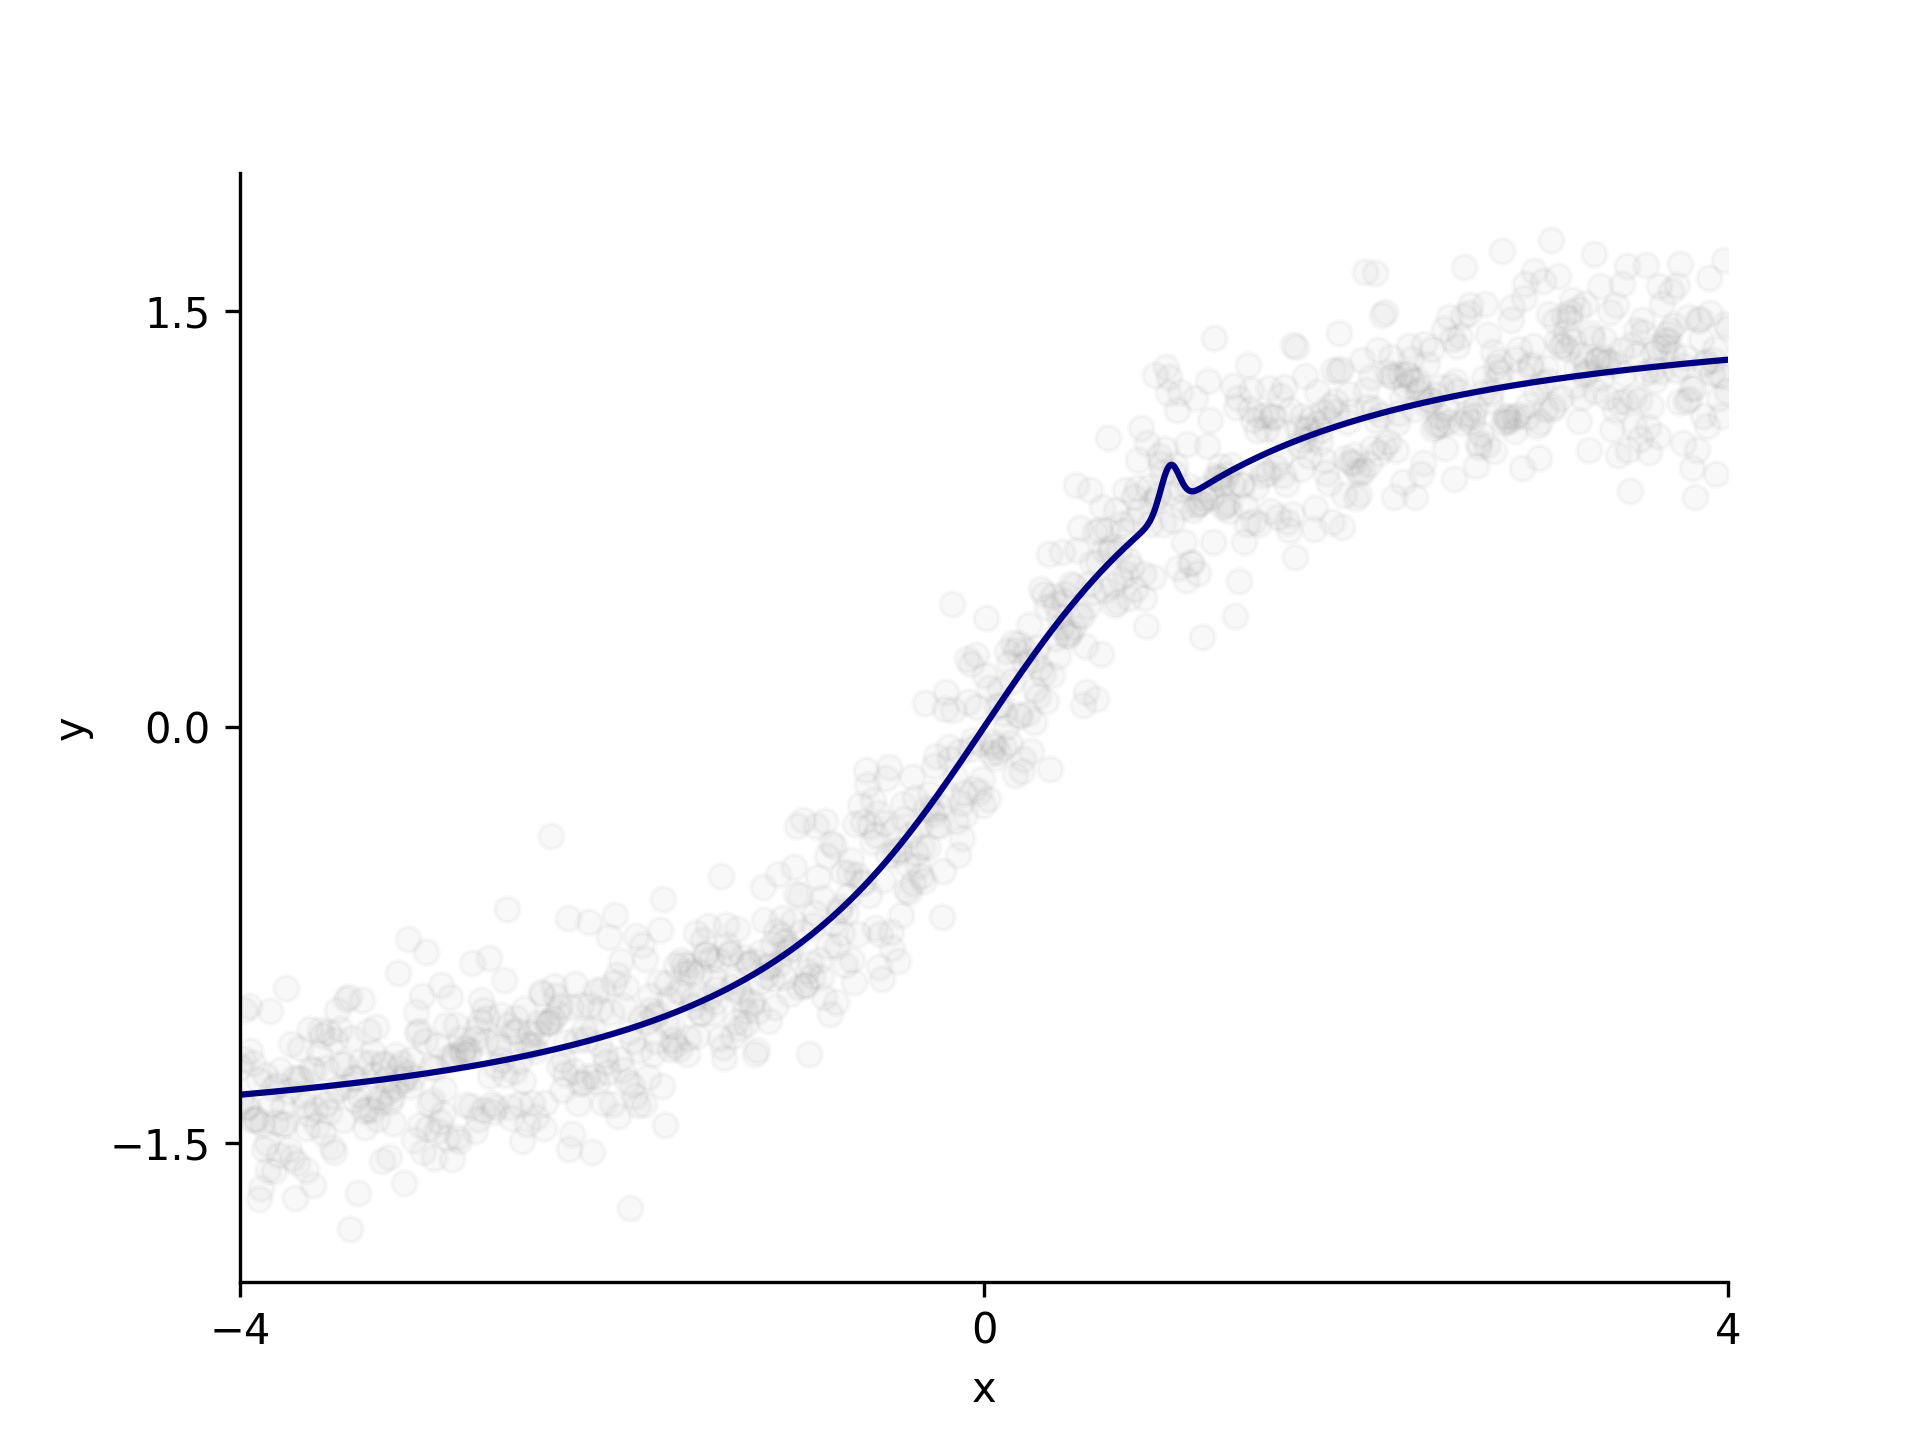
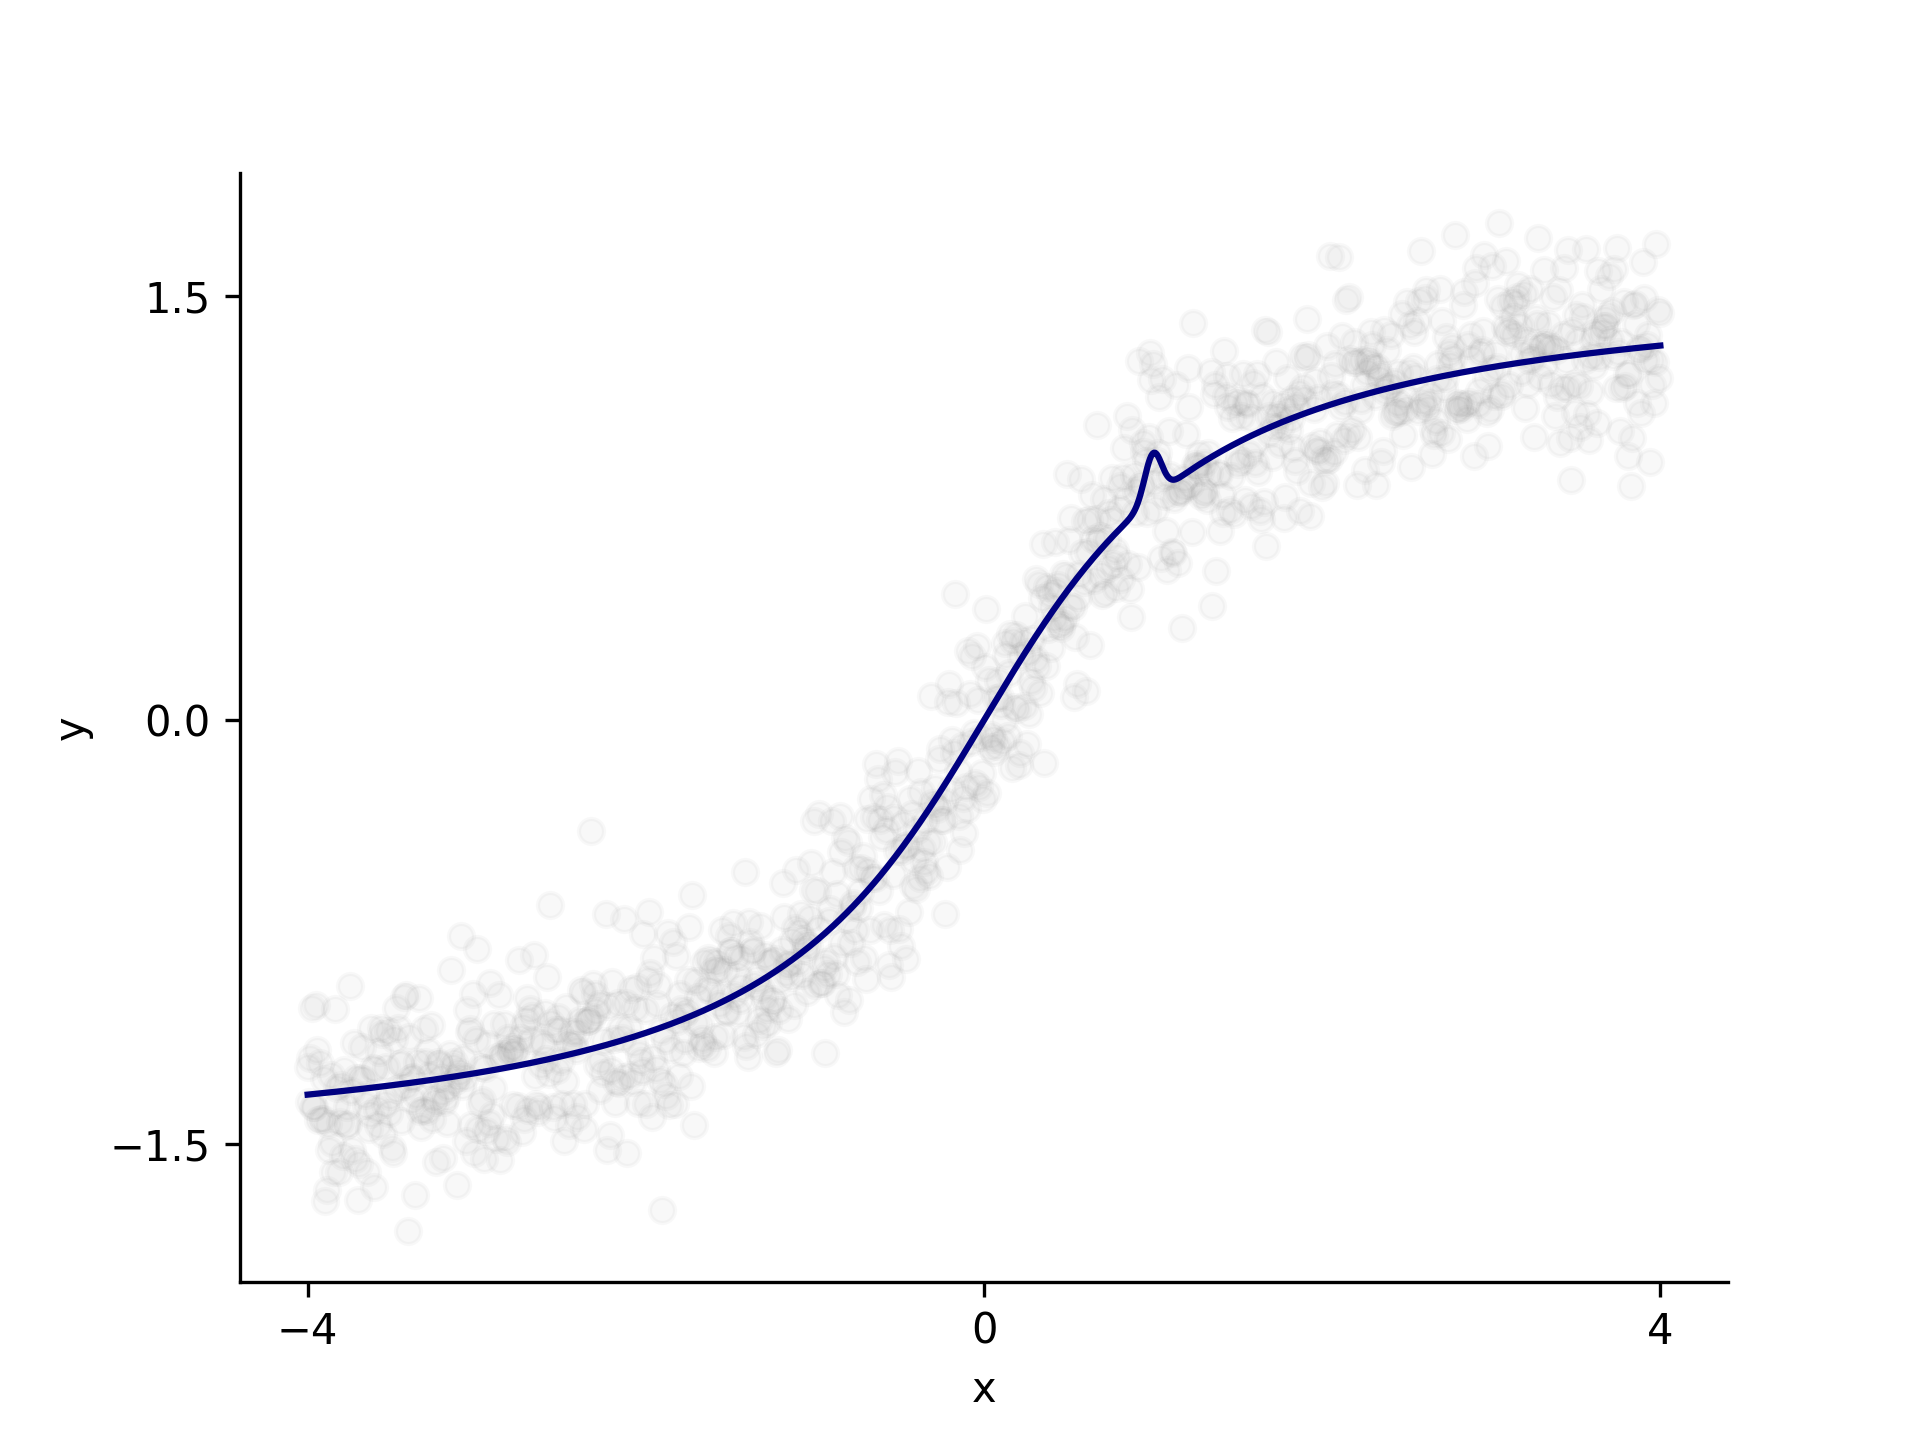
Module 1 fixes (#14)
* add: .yaml files edits by the new version of the plugin

* add: hint on importing hidden functions in matplotlib theory in 1st module

* fix: define all additional files in course-info.yaml (#15)

* add: hint, explaining how linear regression works
fix: task formulation in matplotlib lesson

* fix: move `set_lim` to the advanced section of Matplotlib practice

* feat: add gifs

* fix: fix the hint

* fix: fix xlim and ylim

---------

diff --git a/1_2_line_and_scatter_plots_matplotlib/2_practice/2_advanced_inset_axes/tests/test_task.py b/1_2_line_and_scatter_plots_matplotlib/2_practice/2_advanced_inset_axes/tests/test_task.py
@@ -54,23 +54,23 @@ class PlotTestCase(BaseTestMixin):
         self.checkSpineVisibility(self.fig.axes[0], position="left", expected_visibility=True)
         self.checkSpineVisibility(self.fig.axes[0], position="right", expected_visibility=False)
 
-    def test_05_1_x_lim(self):
-        self.checkLim(self.fig.axes[0], expected_lim=[-4, 4], axis="x")
-
-    def test_05_2_x_ticks(self):
+    def test_05_1_x_ticks(self):
         self.checkTicks(self.fig.axes[0], expected_ticks=[-4, 0, 4], axis="x")
 
-    def test_05_3_x_label(self):
+    def test_05_2_x_label(self):
         self.checkLabel(self.fig.axes[0], expected_label="x", axis="x")
 
-    def test_06_1_y_lim(self):
-        self.checkLim(self.fig.axes[0], expected_lim=[-2, 2], axis="y")
+    def test_05_3_x_lim(self):
+        self.checkLim(self.fig.axes[0], expected_lim=[-4, 4], axis="x")
 
-    def test_06_2_y_ticks(self):
+    def test_06_1_y_ticks(self):
         self.checkTicks(self.fig.axes[0], expected_ticks=[-1.5, 0, 1.5], axis="y")
 
-    def test_06_3_y_label(self):
+    def test_06_2_y_label(self):
         self.checkLabel(self.fig.axes[0], expected_label="y", axis="y")
+
+    def test_06_3_y_lim(self):
+        self.checkLim(self.fig.axes[0], expected_lim=[-2, 2], axis="y")
 
     def test_07_1_number_of_inset_axes(self):
         self.checkNumberOfAxes(self.fig.axes[0].child_axes, 1)

diff --git a/1_2_line_and_scatter_plots_matplotlib/2_practice/1_base_plot/tests/test_task.py b/1_2_line_and_scatter_plots_matplotlib/2_practice/1_base_plot/tests/test_task.py
@@ -53,20 +53,14 @@ class PlotTestCase(BaseTestMixin):
         self.checkSpineVisibility(self.fig.axes[0], position="left", expected_visibility=True)
         self.checkSpineVisibility(self.fig.axes[0], position="right", expected_visibility=False)
 
-    def test_05_1_x_lim(self):
-        self.checkLim(self.fig.axes[0], expected_lim=[-4, 4], axis="x")
-
-    def test_05_2_x_ticks(self):
+    def test_05_1_x_ticks(self):
         self.checkTicks(self.fig.axes[0], expected_ticks=[-4, 0, 4], axis="x")
 
-    def test_05_3_x_label(self):
+    def test_05_2_x_label(self):
         self.checkLabel(self.fig.axes[0], expected_label="x", axis="x")
 
-    def test_06_1_y_lim(self):
-        self.checkLim(self.fig.axes[0], expected_lim=[-2, 2], axis="y")
-
-    def test_06_2_y_ticks(self):
+    def test_06_1_y_ticks(self):
         self.checkTicks(self.fig.axes[0], expected_ticks=[-1.5, 0, 1.5], axis="y")
 
-    def test_06_3_y_label(self):
+    def test_06_2_y_label(self):
         self.checkLabel(self.fig.axes[0], expected_label="y", axis="y")

diff --git a/1_2_line_and_scatter_plots_matplotlib/2_practice/1_base_plot/task.py b/1_2_line_and_scatter_plots_matplotlib/2_practice/1_base_plot/task.py
@@ -6,11 +6,9 @@ from data import read
 
 def configure_axes(ax: plt.Axes):
     ax.set_xticks([-4, 0, 4])
-    ax.set_xlim(-4, 4)
     ax.set_xlabel("x")
 
     ax.set_yticks([-1.5, 0, 1.5])
-    ax.set_ylim(-2, 2)
     ax.set_ylabel("y")
 
     ax.spines[["right", "top"]].set_visible(False)

diff --git a/1_2_line_and_scatter_plots_matplotlib/2_practice/2_advanced_inset_axes/task.md b/1_2_line_and_scatter_plots_matplotlib/2_practice/2_advanced_inset_axes/task.md
@@ -1,10 +1,19 @@
 ## Task
 
-As we can see in the figure, there is a small spike in our data.
-The researchers asked us to plot this detail more closely on the same figure, so let's do that.
+Researchers have received the figure we created for them and were very pleased with the results. But they asked us to make a
+few adjustments to the figure.
+
+First of all, researchers asked us to limit `x` axis view to the interval from `-4` to `4`, and `y` axis view to the
+interval from `-2` to `2`.
+You can do it
+using the [`set_xlim`](https://matplotlib.org/stable/api/_as_gen/matplotlib.axes.Axes.set_xlim.html)
+or [`set_ylim`](https://matplotlib.org/stable/api/_as_gen/matplotlib.axes.Axes.set_ylim.html) functions.
+
+They also noticed a small spike in our data and asked us to plot this detail more closely on the same figure, so let's do that.
 
 To achieve this, we can use _inset axes_. Please consult
-the [documentation](https://matplotlib.org/stable/api/_as_gen/matplotlib.axes.Axes.inset_axes.html) page to figure out how to do this.
+the [documentation](https://matplotlib.org/stable/api/_as_gen/matplotlib.axes.Axes.inset_axes.html) page to figure out
+how to do this.
 
 You can place the inset axes anywhere you like and adjust the size as needed.
 For example, you can place it at coordinates `(0.15, 0.7)` and set the size to `(0.3, 0.3)`.
@@ -35,6 +44,11 @@ Note that these changes will not be tested and might break existing tests.
 
 <div class="hint" title="What should the figure look like?">
     <img src="example.png" alt="What the figure should look like" style="max-height: 500px">
+</div>
+
+<div class="hint" title="How to limit an axis view?">
+    To limit an axis view, you can use the <code>set_xlim</code> or <code>set_ylim</code> method of the <code>Axes</code> object:
+    <code>ax.set_xlim(1, 3)</code>.
 </div>
 
 <div class="hint" title="How to add the inset axes?">

diff --git a/1_2_line_and_scatter_plots_matplotlib/1_theory/4_trend/task.md b/1_2_line_and_scatter_plots_matplotlib/1_theory/4_trend/task.md
@@ -5,7 +5,7 @@ Our data consists of pairs of user scores and critic scores.
 For each user score, there may be multiple critic scores: for example, if we have two games with the same user score,
 they can have different critic scores because they are different games.
 
-However, Matplotlib doesn't perform additional preprocessing, 
+However, Matplotlib doesn't perform additional preprocessing,
 so the `plot` method simply connects the points in the order they appear in the dataset.
 This is why we end up with a confusing "yarn ball" effect.
 
@@ -25,14 +25,20 @@ If you prefer, you can aggregate the data yourself. Please refer to the correspo
    <img src="example.png" alt="What the figure should look like" style="max-height: 500px">
 </div>
 
+<div class="hint" title="How to import hidden functions?">
+    To import it, you can place the cursor on the underlined hidden function name in your code, then press &shortcut:ShowIntentionActions;, and
+    select <samp>Import 'function_name from data'</samp>:
+    <img src="../../../common/resources/images/common/hidden_function_import.gif" alt="What the figure should look like" style="max-height: 500px">
+</div>
+
 <div class="hint" title="How should I aggregate the data?">
    To aggregate the data, you can use Pandas:
-  
+
    <ol>
    <li>Group the data by the <code>user_score</code> column.</li>
    <li>Use the mean function to aggregate the <code>critic_score</code> column. </li>
    <li>Reset the index to convert the series into a DataFrame.</li>
    </ol>
 
-   Note that your own aggregation function will not be tested.
+Note that your own aggregation function will not be tested.
 </div>

diff --git a/1_1_line_and_scatter_plots_seaborn/1_theory/4_lmplot/task.md b/1_1_line_and_scatter_plots_seaborn/1_theory/4_lmplot/task.md
@@ -1,7 +1,7 @@
 ## Theory
 
 Let's try to understand what is going on in our graph. We can definitely see an uptrend, but it is not a straight line.
-This occurs because `relplot` can only plot simple lines, and when it comes to data preprocessing before plotting, 
+This occurs because `relplot` can only plot simple lines, and when it comes to data preprocessing before plotting,
 it performs common aggregations like calculating the mean, median, min, max, etc.
 
 In our case, by default, it calculated the mean of the `critic_score` values that correspond to a common `user_score`.
@@ -19,6 +19,13 @@ which plots the data along with a linear regression model fit.
 Modify the `plot` function by replacing the `relplot` call with `lmplot` and removing the `kind` parameter.
 
 ## Hints
+
+<div class="hint" title="How does linear regression work?">
+    Linear regression finds the best-fitting straight line through the data by minimizing the difference between 
+    predicted and actual values. This is done by minimizing the squared errors between the line and the data points. 
+    The equation of the line is: <code>y = mx + b</code>, where <code>m</code> is the slope and <code>b</code> is the
+    intercept.
+</div>
 
 <div class="hint" title="What should the figure look like?">
    <img src="example.png" alt="What the figure should look like" style="max-height: 500px">

diff --git a/1_2_line_and_scatter_plots_matplotlib/2_practice/1_base_plot/task.md b/1_2_line_and_scatter_plots_matplotlib/2_practice/1_base_plot/task.md
@@ -15,14 +15,12 @@ You should make several visual adjustments to the figure:
 3. Remove the top and right spines.
 
 You should also make some modifications to the x-axis:
-1. Limit the x-axis view to the interval from `-4` to `4`.
-2. The x-axis should have only three ticks: `-4`, `0`, and `4`.
-3. Label the x-axis as `x`.
+1. The x-axis should have only three ticks: `-4`, `0`, and `4`.
+2. Label the x-axis as `x`.
 
 And make similar changes to the y-axis:
-1. Limit the y-axis view to the interval from `-2` to `2`.
-2. The y-axis should have only three ticks: `-1.5`, `0`, and `1.5`.
-3. Label the y-axis as `y`.
+1. The y-axis should have only three ticks: `-1.5`, `0`, and `1.5`.
+2. Label the y-axis as `y`.
 
 Note that you don't need to preprocess the data.
 
@@ -43,11 +41,6 @@ please feel free to use the hints below, where you can also find what the final 
 <div class="hint" title="How to make the trace transparent?">
     To make the line or scatter plot transparent, you can use the <code>alpha</code> argument:
     <code>ax.scatter("x", "y", data=my_data, alpha=0.5)</code>.
-</div>
-
-<div class="hint" title="How to limit an axis view?">
-    To limit an axis view, you can use the <code>set_xlim</code> or <code>set_ylim</code> method of the <code>Axes</code> object:
-    <code>ax.set_xlim(1, 3)</code>.
 </div>
 
 <div class="hint" title="How to set ticks?">

diff --git a/1_2_line_and_scatter_plots_matplotlib/1_theory/5_regression_plot/task.md b/1_2_line_and_scatter_plots_matplotlib/1_theory/5_regression_plot/task.md
@@ -21,12 +21,22 @@ ax.scatter("x2", "y2", data=my_data)
 
 ## Task
 
-Add the scatter plot to the same figure.
+Plot the regression line and add the scatter plot to it.
 
 ## Hints
 
 <div class="hint" title="What should the figure look like?">
    <img src="example.png" alt="What the figure should look like" style="max-height: 500px">
+</div>
+
+<div class="hint" title="How does linear regression work?">
+   Linear regression finds the best-fitting straight line through the data by minimizing the difference between 
+   predicted and actual values. This is done by minimizing the squared errors between the line and the data points. 
+   The equation of the line is: <code>y = mx + b</code>, where <code>m</code> is the slope and <code>b</code> is the
+   intercept.
+    
+   Note again, that Matplotlib does not provide a built-in method for linear regression, 
+   so you need to aggregate data yourself.
 </div>
 
 <div class="hint" title="How should I aggregate the data?">
